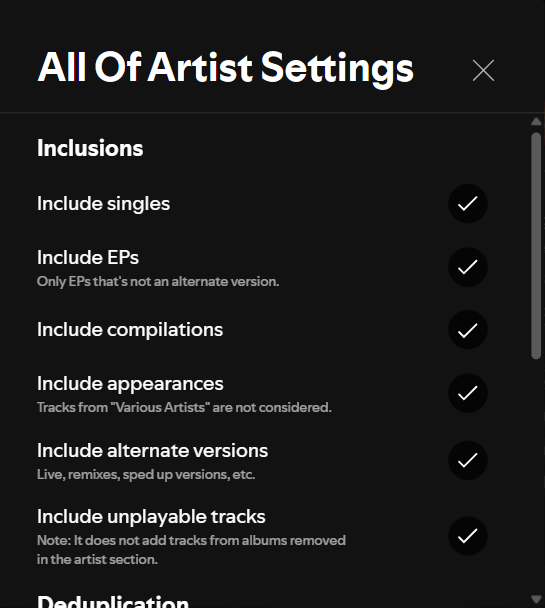
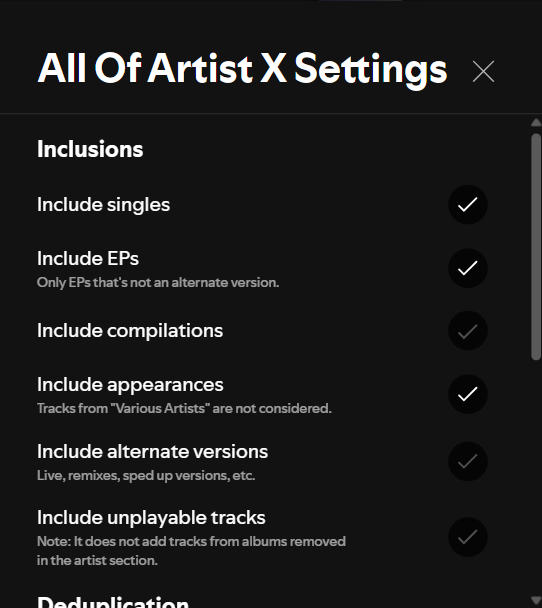
X

diff --git a/allOfArtistX.js b/allOfArtistX.js
@@ -1,13 +1,13 @@
-(async function allOfArtistInspired() {
+(async function allOfArtistX() {
 	if (!(Spicetify.React && Spicetify.ReactDOM && Spicetify.Platform)) {
-		setTimeout(allOfArtistInspired, 300);
+		setTimeout(allOfArtistX, 300);
 		return;
 	}
 
 	const { React } = Spicetify;
 	const { useState } = React;
 
-	const CONFIG_KEY = "allOfArtistInspired:settings";
+	const CONFIG_KEY = "allOfArtistX:settings";
 	const DEFAULT_CONFIG = {
 		includeSingles: true,
 		includeEPs: true,
@@ -320,7 +320,7 @@
 				versionTitle: body.version_title || "",
 			};
 		} catch (e) {
-			console.error(`[all-of-artist-inspired] Failed to fetch ${type} internal metadata:`, e);
+			console.error(`[all-of-artist-x] Failed to fetch ${type} internal metadata:`, e);
 			return null;
 		}
 	}
@@ -848,7 +848,7 @@
 			Spicetify.showNotification(`${baseName} created.`);
 		} catch (e) {
 			Spicetify.showNotification(`Failed to create ${baseName}`, true);
-			console.error("[all-of-artist-inspired]", e);
+			console.error("[all-of-artist-x]", e);
 		}
 	}
 })();

diff --git a/README.md b/README.md
@@ -1,4 +1,4 @@
-# All of Artist (Inspired)
+# All of Artist X
 
 Create a complete playlist of your favorite artist’s discography — curated and organized exactly how you want.
 
@@ -19,12 +19,14 @@ Your playlist, your preference.
 ### 1. Using [Marketplace](https://github.com/spicetify/spicetify-marketplace)
 
 1.  Go to Marketplace
-2.  Search `All of Artist (Inspired)` under "Extensions" tab
-3.  Click the **Install** button for "All of Artist (Inspired)"
-4.  Reload the Spotify. Done!
+2.  Search `All of Artist X` under "Extensions" tab
+3.  Click the **Install** button for "All of Artist X"
+4.  Reload Spotify. Done!
+
+> If you can't see the extension in marketplace, just click "Load more"
 
 ### 2. Manual Installation
-Copy `allOfArtistLoader.mjs` into your [Spicetify](https://github.com/spicetify/spicetify-cli) extensions directory:
+Copy `allOfArtistXLoader.mjs` into your [Spicetify](https://github.com/spicetify/spicetify-cli) extensions directory:
 
 | **Platform** | **Path**                                                                             |
 | ------------ | ------------------------------------------------------------------------------------ |
@@ -35,7 +37,7 @@ Copy `allOfArtistLoader.mjs` into your [Spicetify](https://github.com/spicetify/
 After putting the extension file into the correct folder, run the following command to install the extension:
 
 ```bash
-spicetify config extensions allOfArtistLoader.mjs
+spicetify config extensions allOfArtistXLoader.mjs
 spicetify apply
 ```
 
@@ -45,7 +47,7 @@ Example:
 ```ini
 [AdditionalOptions]
 ...
-extensions = autoSkipExplicit.js|shuffle+.js|trashbin.js|allOfArtistLoader.mjs
+extensions = autoSkipExplicit.js|shuffle+.js|trashbin.js|allOfArtistXLoader.mjs
 ```
 
 Then run:
@@ -59,7 +61,7 @@ spicetify apply
 Run the following command to uninstall the extension (note the - on the end):
 
 ```bash
-spicetify config extensions allOfArtistLoader.mjs-
+spicetify config extensions allOfArtistXLoader.mjs-
 spicetify apply
 ```
 
@@ -87,7 +89,7 @@ You can also find the option if you click the three dots (More options) when you
 
 ## Settings
 
-Click on your profile at the top-right corner and click "👤 All of Artist Settings"
+Click on your profile at the top-right corner and click "👤 All of Artist X Settings"
 
 > [!NOTE]
 >  Some settings have a description under their title. It's important you read them.
@@ -138,6 +140,6 @@ This extension uses [`canonical_uri`](https://en.wikipedia.org/wiki/Canonicaliza
 
 This extension was inspired by and built with the help of ideas and code from several extensions:
 
-- [**allOfArtist**](https://github.com/pl4neta/allOfArtist) by pl4neta — for edge cases that inspired improvements.
-- [**sort-play**](https://github.com/hoeci/sort-play) by hoeci — for custom cover implementation.
-- [**shuffle+**](https://spicetify.app/docs/customization/extensions/#shuffle) by khanhas and Tetrax-10 — for the settings structure and styling. 
+- [**allOfArtist**](https://github.com/pl4neta/allOfArtist) by pl4neta
+- [**sort-play**](https://github.com/hoeci/sort-play) by hoeci
+- [**shuffle+**](https://spicetify.app/docs/customization/extensions/#shuffle) by khanhas and Tetrax-10 
